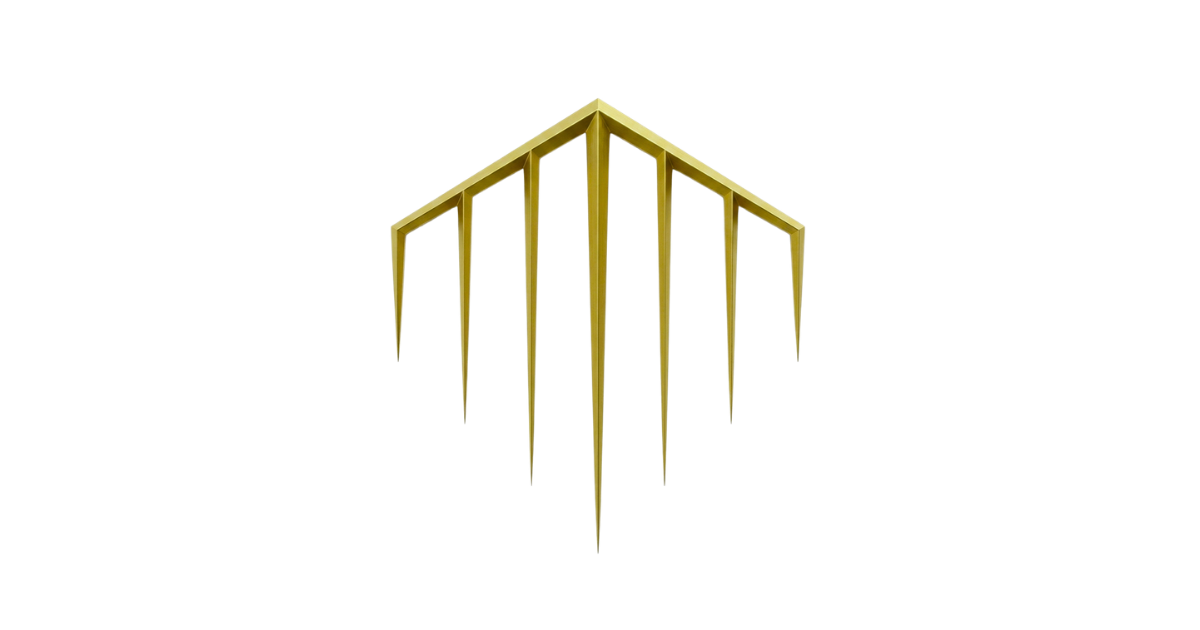
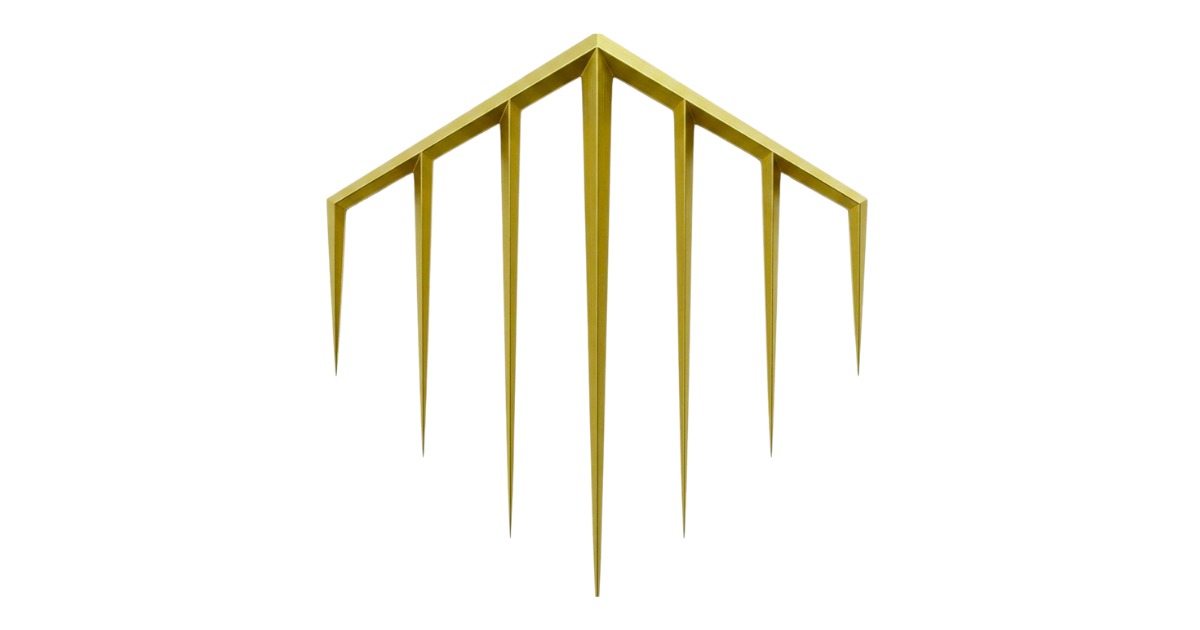
Updated Open Graph image

Changed region(s): [[0.2467, 0.0603, 0.74, 0.9349]]

diff --git a/src/routes/__root.tsx b/src/routes/__root.tsx
@@ -75,13 +75,13 @@ export const Route = createRootRouteWithContext<{ queryClient: QueryClient }>()(
       content: "website",
     },
     {
-      property: "og:url",
-      content: "https://truehomebuilders.in",
-    },
-    {
-      property: "og:image",
-      content: "https://truehomebuilders.in/og-image.png",
-    },
+  property: "og:image",
+  content: "https://www.truehomebuilders.in/og-image.png",
+},
+{
+  property: "og:url",
+  content: "https://www.truehomebuilders.in",
+},
     {
       property: "og:image:width",
       content: "1200",
@@ -116,7 +116,10 @@ export const Route = createRootRouteWithContext<{ queryClient: QueryClient }>()(
 
   links: [
     { rel: "stylesheet", href: appCss },
-    { rel: "canonical", href: "https://truehomebuilders.in" },
+   {
+  rel: "canonical",
+  href: "https://www.truehomebuilders.in",
+},
     { rel: "icon", href: "/favicon.png" },
   ],
 }),